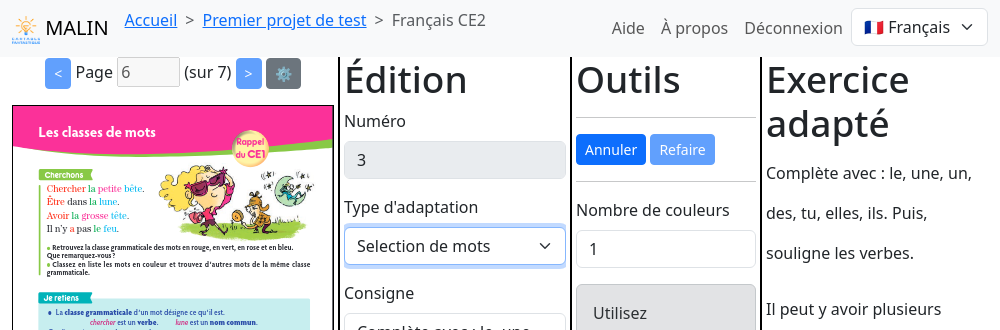
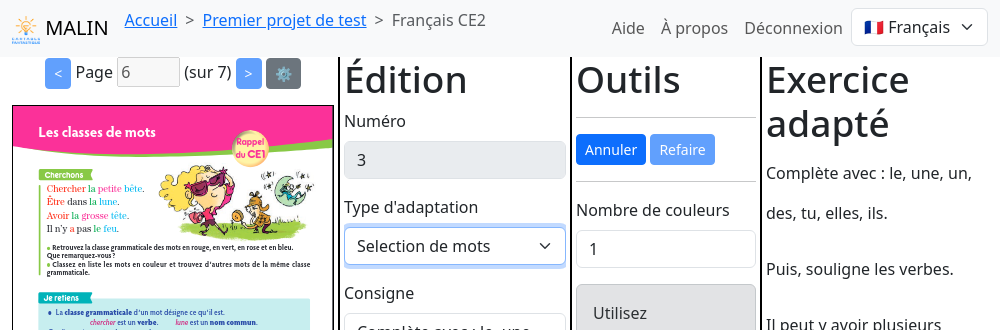
In instructions, display each sentence in its own paragraph

Changed region(s): [[0.744, 0.9091, 0.961, 1.0], [0.744, 0.7576, 0.961, 0.8485], [0.899, 0.6364, 0.93, 0.6667]]

diff --git a/backend/gabby/parsing.py b/backend/gabby/parsing.py
@@ -1,5 +1,6 @@
 import abc
 import functools
+import itertools
 
 import lark
 
@@ -15,10 +16,7 @@ def memoize_parser(grammar, start):
     return lark.Lark(grammar, start=start)
 
 
-class SectionTransformer(lark.Transformer):
-    def section(self, paragraphs):
-        return renderable.Section(paragraphs=paragraphs)
-
+class _SectionTransformer(lark.Transformer):
     def paragraph(self, args):
         return args[0]
 
@@ -50,7 +48,7 @@ class SectionTransformer(lark.Transformer):
         return int(arg.value)
 
 
-class SectionParser(abc.ABC):
+class _SectionParser(abc.ABC):
     def __init__(self, tags, transformer):
         grammar = (
             r"""\
@@ -87,6 +85,7 @@ class SectionParser(abc.ABC):
             normalized = self.normalize(section)
             try:
                 return self.transformer.transform(self.parser.parse(normalized))
+                # return self.post_process(self.transformer.transform(self.parser.parse(normalized)))
             except lark.exceptions.ParseError as e:
                 raise ValueError(f"Error parsing section {normalized}: {e}")
 
@@ -94,8 +93,21 @@ class SectionParser(abc.ABC):
     def normalize(self, section: str) -> str:
         raise NotImplementedError()
 
+    # @abc.abstractmethod
+    # def post_process(self, section: renderable.Section) -> renderable.Section:
+    #     raise NotImplementedError()
 
-class InstructionsSectionParser(SectionParser):
+
+class InstructionsSectionTransformer(_SectionTransformer):
+    def section(self, paragraphs):
+        return renderable.Section(paragraphs=list(
+            renderable.Paragraph(sentences=[sentence])
+            for sentence in
+            itertools.chain.from_iterable(paragraph.sentences for paragraph in paragraphs)
+        ))
+
+
+class InstructionsSectionParser(_SectionParser):
     def normalize(self, section):
         # This string manipulation before parsing is fragile but works for now.
         return "\n\n".join(
@@ -112,10 +124,10 @@ def parse_instructions_section(tags, transformer, section):
     return InstructionsSectionParser(tags, transformer)(section)
 
 
-parse_plain_instructions_section = InstructionsSectionParser({}, SectionTransformer())
+parse_plain_instructions_section = InstructionsSectionParser({}, InstructionsSectionTransformer())
 
 
-class GenericSectionTransformer(SectionTransformer):
+class GenericSectionTransformerMixin:
     def boxed_text_tag(self, args):
         text, = args
         return renderable.BoxedText(text=text)
@@ -140,6 +152,10 @@ class GenericSectionTransformer(SectionTransformer):
         return renderable.FreeTextInput()
 
 
+class GenericInstructionsSectionTransformer(InstructionsSectionTransformer, GenericSectionTransformerMixin):
+    pass
+
+
 parse_generic_instructions_section = InstructionsSectionParser(
     {
         "boxed_text": r""" "|" STR """,
@@ -149,7 +165,7 @@ parse_generic_instructions_section = InstructionsSectionParser(
         "multiple_choices_input": r""" ("|" STR)+ """,
         "free_text_input": "",
     },
-    GenericSectionTransformer(),
+    GenericInstructionsSectionTransformer(),
 )
 
 
@@ -165,7 +181,7 @@ class ParseGenericInstructionsSectionTestCase(TestCase):
     # In instructions (and example and clue) sections, we want to:
     # - join consecutive lines separated by a single carriage return into a single paragraph
     # - separate paragraphs by at least two carriage returns
-    # - @todo split paragraphs made of several sentences into several paragraphs of one sentence each
+    # - split paragraphs made of several sentences into several paragraphs of one sentence each
 
     def test_empty(self):
         self.do_test("", renderable.Section(paragraphs=[]))
@@ -206,7 +222,7 @@ class ParseGenericInstructionsSectionTestCase(TestCase):
 
     def test_several_paragraphs_of_one_sentence_each(self):
         self.do_test(
-            "This\ris\ta\nparagraph.\n\nThis is\nanother\nparagraph!\r\n\r\nThird\r\nparagraph.\r\r4th paragraph.",
+            "This\ris\ta\nparagraph.\n\nThis is\n{boxed-text|another}\nparagraph!\r\n\r\nThird\r\nparagraph.\r\r4th paragraph.",
             renderable.Section(paragraphs=[
                 renderable.Paragraph(sentences=[renderable.Sentence(tokens=[
                     renderable.PlainText(text="This"),
@@ -223,7 +239,7 @@ class ParseGenericInstructionsSectionTestCase(TestCase):
                     renderable.Whitespace(),
                     renderable.PlainText(text="is"),
                     renderable.Whitespace(),
-                    renderable.PlainText(text="another"),
+                    renderable.BoxedText(text="another"),
                     renderable.Whitespace(),
                     renderable.PlainText(text="paragraph"),
                     renderable.PlainText(text="!"),
@@ -238,6 +254,45 @@ class ParseGenericInstructionsSectionTestCase(TestCase):
                     renderable.PlainText(text="4th"),
                     renderable.Whitespace(),
                     renderable.PlainText(text="paragraph"),
+                    renderable.PlainText(text="."),
+                ])]),
+            ]),
+        )
+
+    def test_one_paragraph_of_several_sentences(self):
+        self.do_test(
+            "This\ris\ta\nsentence. This is\n{boxed-text|another}\nsentence! Third\r\nsentence. 4th sentence.",
+            renderable.Section(paragraphs=[
+                renderable.Paragraph(sentences=[renderable.Sentence(tokens=[
+                    renderable.PlainText(text="This"),
+                    renderable.Whitespace(),
+                    renderable.PlainText(text="is"),
+                    renderable.Whitespace(),
+                    renderable.PlainText(text="a"),
+                    renderable.Whitespace(),
+                    renderable.PlainText(text="sentence"),
+                    renderable.PlainText(text="."),
+                ])]),
+                renderable.Paragraph(sentences=[renderable.Sentence(tokens=[
+                    renderable.PlainText(text="This"),
+                    renderable.Whitespace(),
+                    renderable.PlainText(text="is"),
+                    renderable.Whitespace(),
+                    renderable.BoxedText(text="another"),
+                    renderable.Whitespace(),
+                    renderable.PlainText(text="sentence"),
+                    renderable.PlainText(text="!"),
+                ])]),
+                renderable.Paragraph(sentences=[renderable.Sentence(tokens=[
+                    renderable.PlainText(text="Third"),
+                    renderable.Whitespace(),
+                    renderable.PlainText(text="sentence"),
+                    renderable.PlainText(text="."),
+                ])]),
+                renderable.Paragraph(sentences=[renderable.Sentence(tokens=[
+                    renderable.PlainText(text="4th"),
+                    renderable.Whitespace(),
+                    renderable.PlainText(text="sentence"),
                     renderable.PlainText(text="."),
                 ])]),
             ]),
@@ -367,7 +422,7 @@ class ParseGenericInstructionsSectionTestCase(TestCase):
         )
 
 
-class WordingSectionParser(SectionParser):
+class WordingSectionParser(_SectionParser):
     def normalize(self, section):
         # This string manipulation before parsing is fragile but works for now.
         return "\n\n".join(
@@ -380,11 +435,20 @@ class WordingSectionParser(SectionParser):
         )
 
 
+class WordingSectionTransformer(_SectionTransformer):
+    def section(self, paragraphs):
+        return renderable.Section(paragraphs=paragraphs)
+
+
 def parse_wording_section(tags, transformer, section):
     return WordingSectionParser(tags, transformer)(section)
 
 
-parse_plain_wording_section = WordingSectionParser({}, SectionTransformer())
+parse_plain_wording_section = WordingSectionParser({}, WordingSectionTransformer())
+
+
+class GenericWordingSectionTransformer(WordingSectionTransformer, GenericSectionTransformerMixin):
+    pass
 
 
 parse_generic_wording_section = WordingSectionParser(
@@ -396,7 +460,7 @@ parse_generic_wording_section = WordingSectionParser(
         "multiple_choices_input": r""" ("|" STR)+ """,
         "free_text_input": "",
     },
-    GenericSectionTransformer(),
+    GenericWordingSectionTransformer(),
 )
 
 
@@ -445,7 +509,7 @@ class ParseGenericWordingSectionTestCase(TestCase):
 
     def test_one_paragraph_with_strict_sentences(self):
         self.do_test(
-            "This is: a   sentence.   And, another; one. Again... Again… \t Another? Yes! Une autre ? Oui !",
+            "This is: a   sentence.   And, {boxed-text|another}; one. Again... Again… \t Another? Yes! Une autre ? Oui !",
             renderable.Section(paragraphs=[renderable.Paragraph(sentences=[
                 renderable.Sentence(tokens=[
                     renderable.PlainText(text="This"),
@@ -462,7 +526,7 @@ class ParseGenericWordingSectionTestCase(TestCase):
                     renderable.PlainText(text="And"),
                     renderable.PlainText(text=","),
                     renderable.Whitespace(),
-                    renderable.PlainText(text="another"),
+                    renderable.BoxedText(text="another"),
                     renderable.PlainText(text=";"),
                     renderable.Whitespace(),
                     renderable.PlainText(text="one"),

diff --git a/backend/gabby/adaptations/multiple_choices_in_instructions.py b/backend/gabby/adaptations/multiple_choices_in_instructions.py
@@ -28,12 +28,8 @@ class MultipleChoicesInInstructionsAdaptation(Adaptation):
 
     placeholder: orm.Mapped[str]
 
-    class InstructionsAdapter(parsing.SectionTransformer):
-        def __init__(self):
-            self.choices = []
-
+    class InstructionsAdapter(parsing.InstructionsSectionTransformer):
         def choice_tag(self, args):
-            self.choices.append(args[0])
             return renderable.BoxedText(text=args[0])
 
     adapt_instructions = parsing.InstructionsSectionParser({"choice": r""" "|" STR """}, InstructionsAdapter())
@@ -41,14 +37,26 @@ class MultipleChoicesInInstructionsAdaptation(Adaptation):
     def make_adapted_instructions(self):
         return self.adapt_instructions(self.exercise.instructions)
 
-    class ChoicesGatherer(parsing.SectionTransformer):
+    class ChoicesGatherer(parsing.InstructionsSectionTransformer):
         def section(self, choices):
             return list(itertools.chain.from_iterable(choices))
 
         def paragraph(self, choices):
             return list(itertools.chain.from_iterable(choices))
 
-        def sentence(self, choices):
+        def strict_paragraph(self, choices):
+            return list(itertools.chain.from_iterable(choices))
+
+        def strict_sentence(self, choices):
+            return list(itertools.chain.from_iterable(choices))
+
+        def in_sentence_punctuation(self, args):
+            return []
+
+        def end_of_sentence_punctuation(self, args):
+            return []
+
+        def lenient_paragraph(self, choices):
             return list(itertools.chain.from_iterable(choices))
 
         def word(self, args):
@@ -65,7 +73,7 @@ class MultipleChoicesInInstructionsAdaptation(Adaptation):
 
     gather_choices = parsing.InstructionsSectionParser({"choice": r""" "|" STR """}, ChoicesGatherer())
 
-    class WordingAdapter(parsing.SectionTransformer):
+    class WordingAdapter(parsing.WordingSectionTransformer):
         def __init__(self, choices):
             self.choices = choices
 

diff --git a/backend/gabby/adaptations/select_things.py b/backend/gabby/adaptations/select_things.py
@@ -35,7 +35,7 @@ class SelectThingsAdaptation(Adaptation):
     def adapt_instructions(self, section):
         return parsing.parse_instructions_section(
             {f"sel{color_index}": r""" "|" STR """ for color_index in self.color_indexes},
-            type("InstructionsAdapter", (parsing.SectionTransformer,), {
+            type("InstructionsAdapter", (parsing.InstructionsSectionTransformer,), {
                 f"sel{color_index}_tag": (lambda color: staticmethod(lambda args: renderable.SelectedText(text=args[0], color=color, colors=self.colors)))(color_index)
                 for color_index in self.color_indexes
             })(),
@@ -55,7 +55,7 @@ class SelectThingsAdaptation(Adaptation):
 
         return section
 
-    class WordingAdapter(parsing.SectionTransformer):
+    class WordingAdapter(parsing.WordingSectionTransformer):
         def __init__(self, words, punctuation, colors):
             self.select_words = words
             self.select_punctuation = punctuation
@@ -290,7 +290,7 @@ class SelectThingsAdaptationTestCase(AdaptationTestCase):
             number="number",
             textbook_page=42,
             instructions="instructions",
-            wording="wording\nis\n\non\n\nmultiple\nlines",
+            wording="wording is\n\non\n\nmultiple lines",
             example="",
             clue="",
         )

diff --git a/backend/gabby/adaptations/fill_with_free_text.py b/backend/gabby/adaptations/fill_with_free_text.py
@@ -29,7 +29,7 @@ class FillWithFreeTextAdaptation(Adaptation):
     def make_adapted_instructions(self):
         return parsing.parse_plain_instructions_section(self.exercise.instructions)
 
-    class WordingAdapter(parsing.SectionTransformer):
+    class WordingAdapter(parsing.WordingSectionTransformer):
         def placeholder_tag(self, args):
             return renderable.FreeTextInput()
 
@@ -191,7 +191,7 @@ class FillWithFreeTextAdaptationTestCase(AdaptationTestCase):
             number="number",
             textbook_page=42,
             instructions="instructions",
-            wording="foo\ntoto : ...\n\nbar : ...\n\nbaz : ...",
+            wording="foo toto : ...\n\nbar : ...\n\nbaz : ...",
             example="",
             clue="",
         )

diff --git a/backend/gabby/renderable.py b/backend/gabby/renderable.py
@@ -123,7 +123,11 @@ class Section(BaseModel):
         generic = "\n\n".join(p.to_generic() for p in self.paragraphs)
         if settings.DEBUG:
             from . import parsing
-            assert parsing.parse_generic_instructions_section(generic) == self
+            reparsed = parsing.parse_generic_wording_section(generic)
+            if reparsed != self:
+                print("Expected:", generic)
+                print("Got:", reparsed.to_generic())
+                assert False
         return generic
 
 

diff --git a/backend/gabby/adaptations/multiple_choices_in_wording.py b/backend/gabby/adaptations/multiple_choices_in_wording.py
@@ -27,7 +27,7 @@ class MultipleChoicesInWordingAdaptation(Adaptation):
     def make_adapted_instructions(self):
         return parsing.parse_plain_instructions_section(self.exercise.instructions)
 
-    class WordingAdapter(parsing.SectionTransformer):
+    class WordingAdapter(parsing.WordingSectionTransformer):
         def choices_tag(self, args):
             return renderable.MultipleChoicesInput(choices=[arg.value for arg in args])
 
